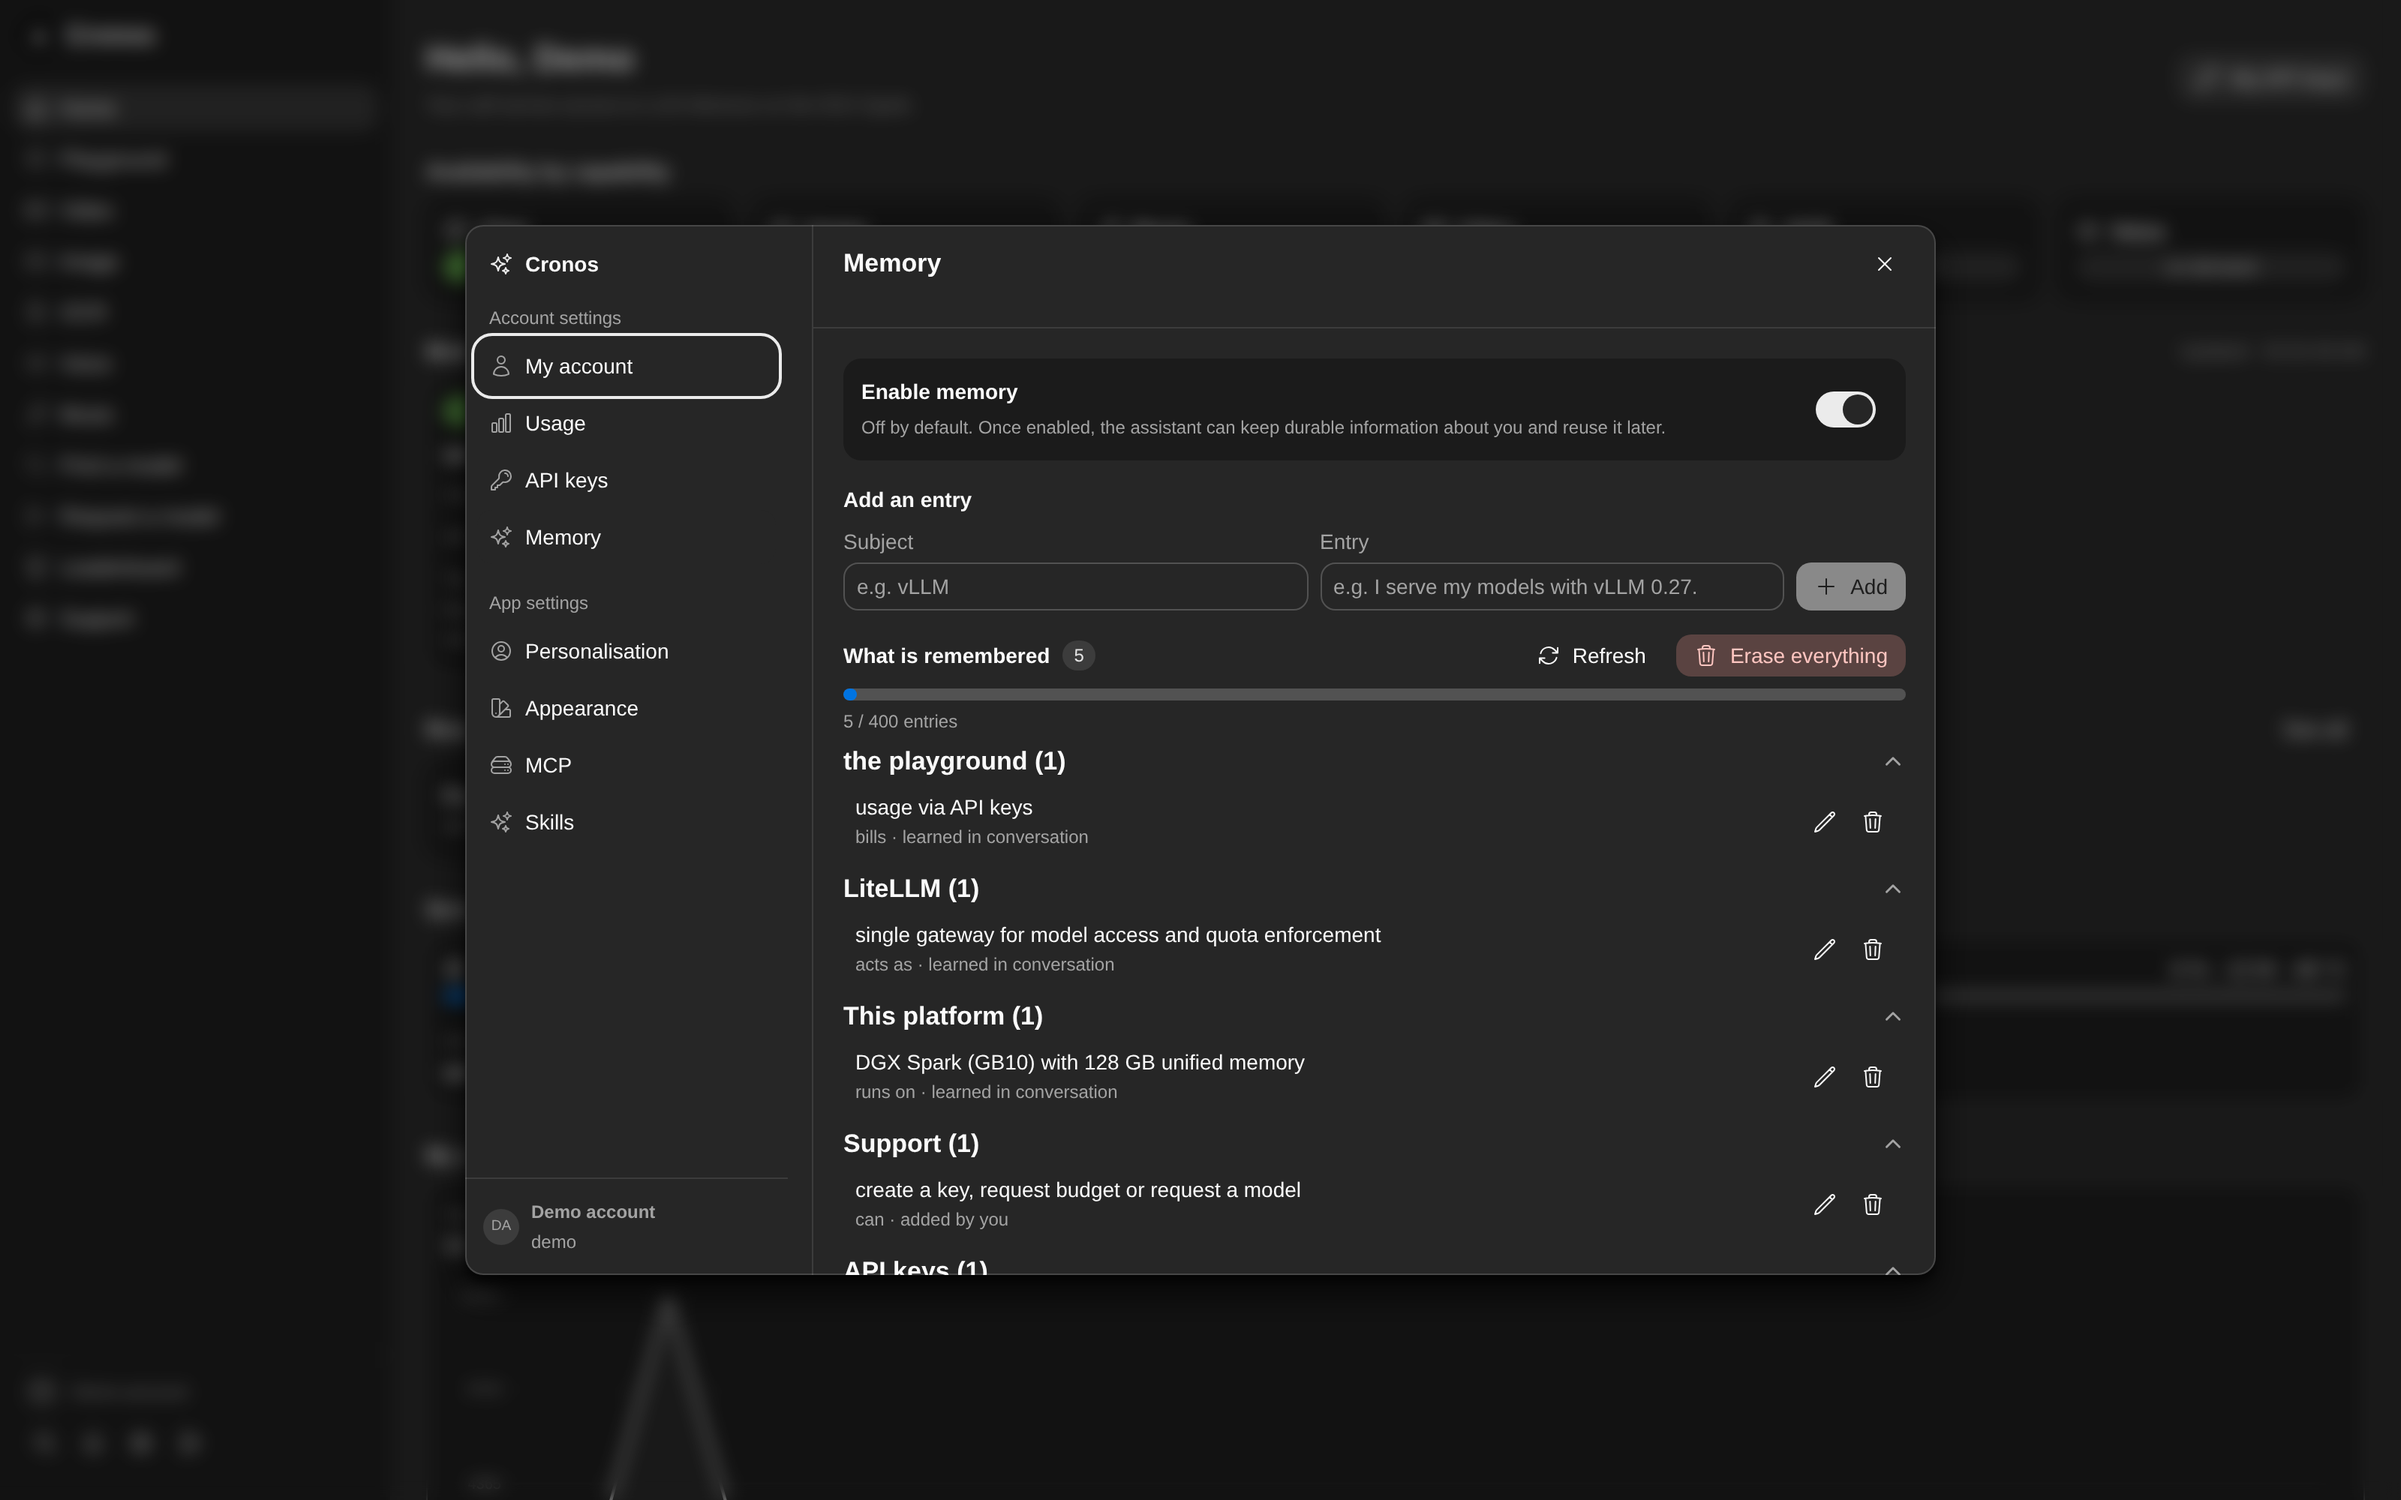
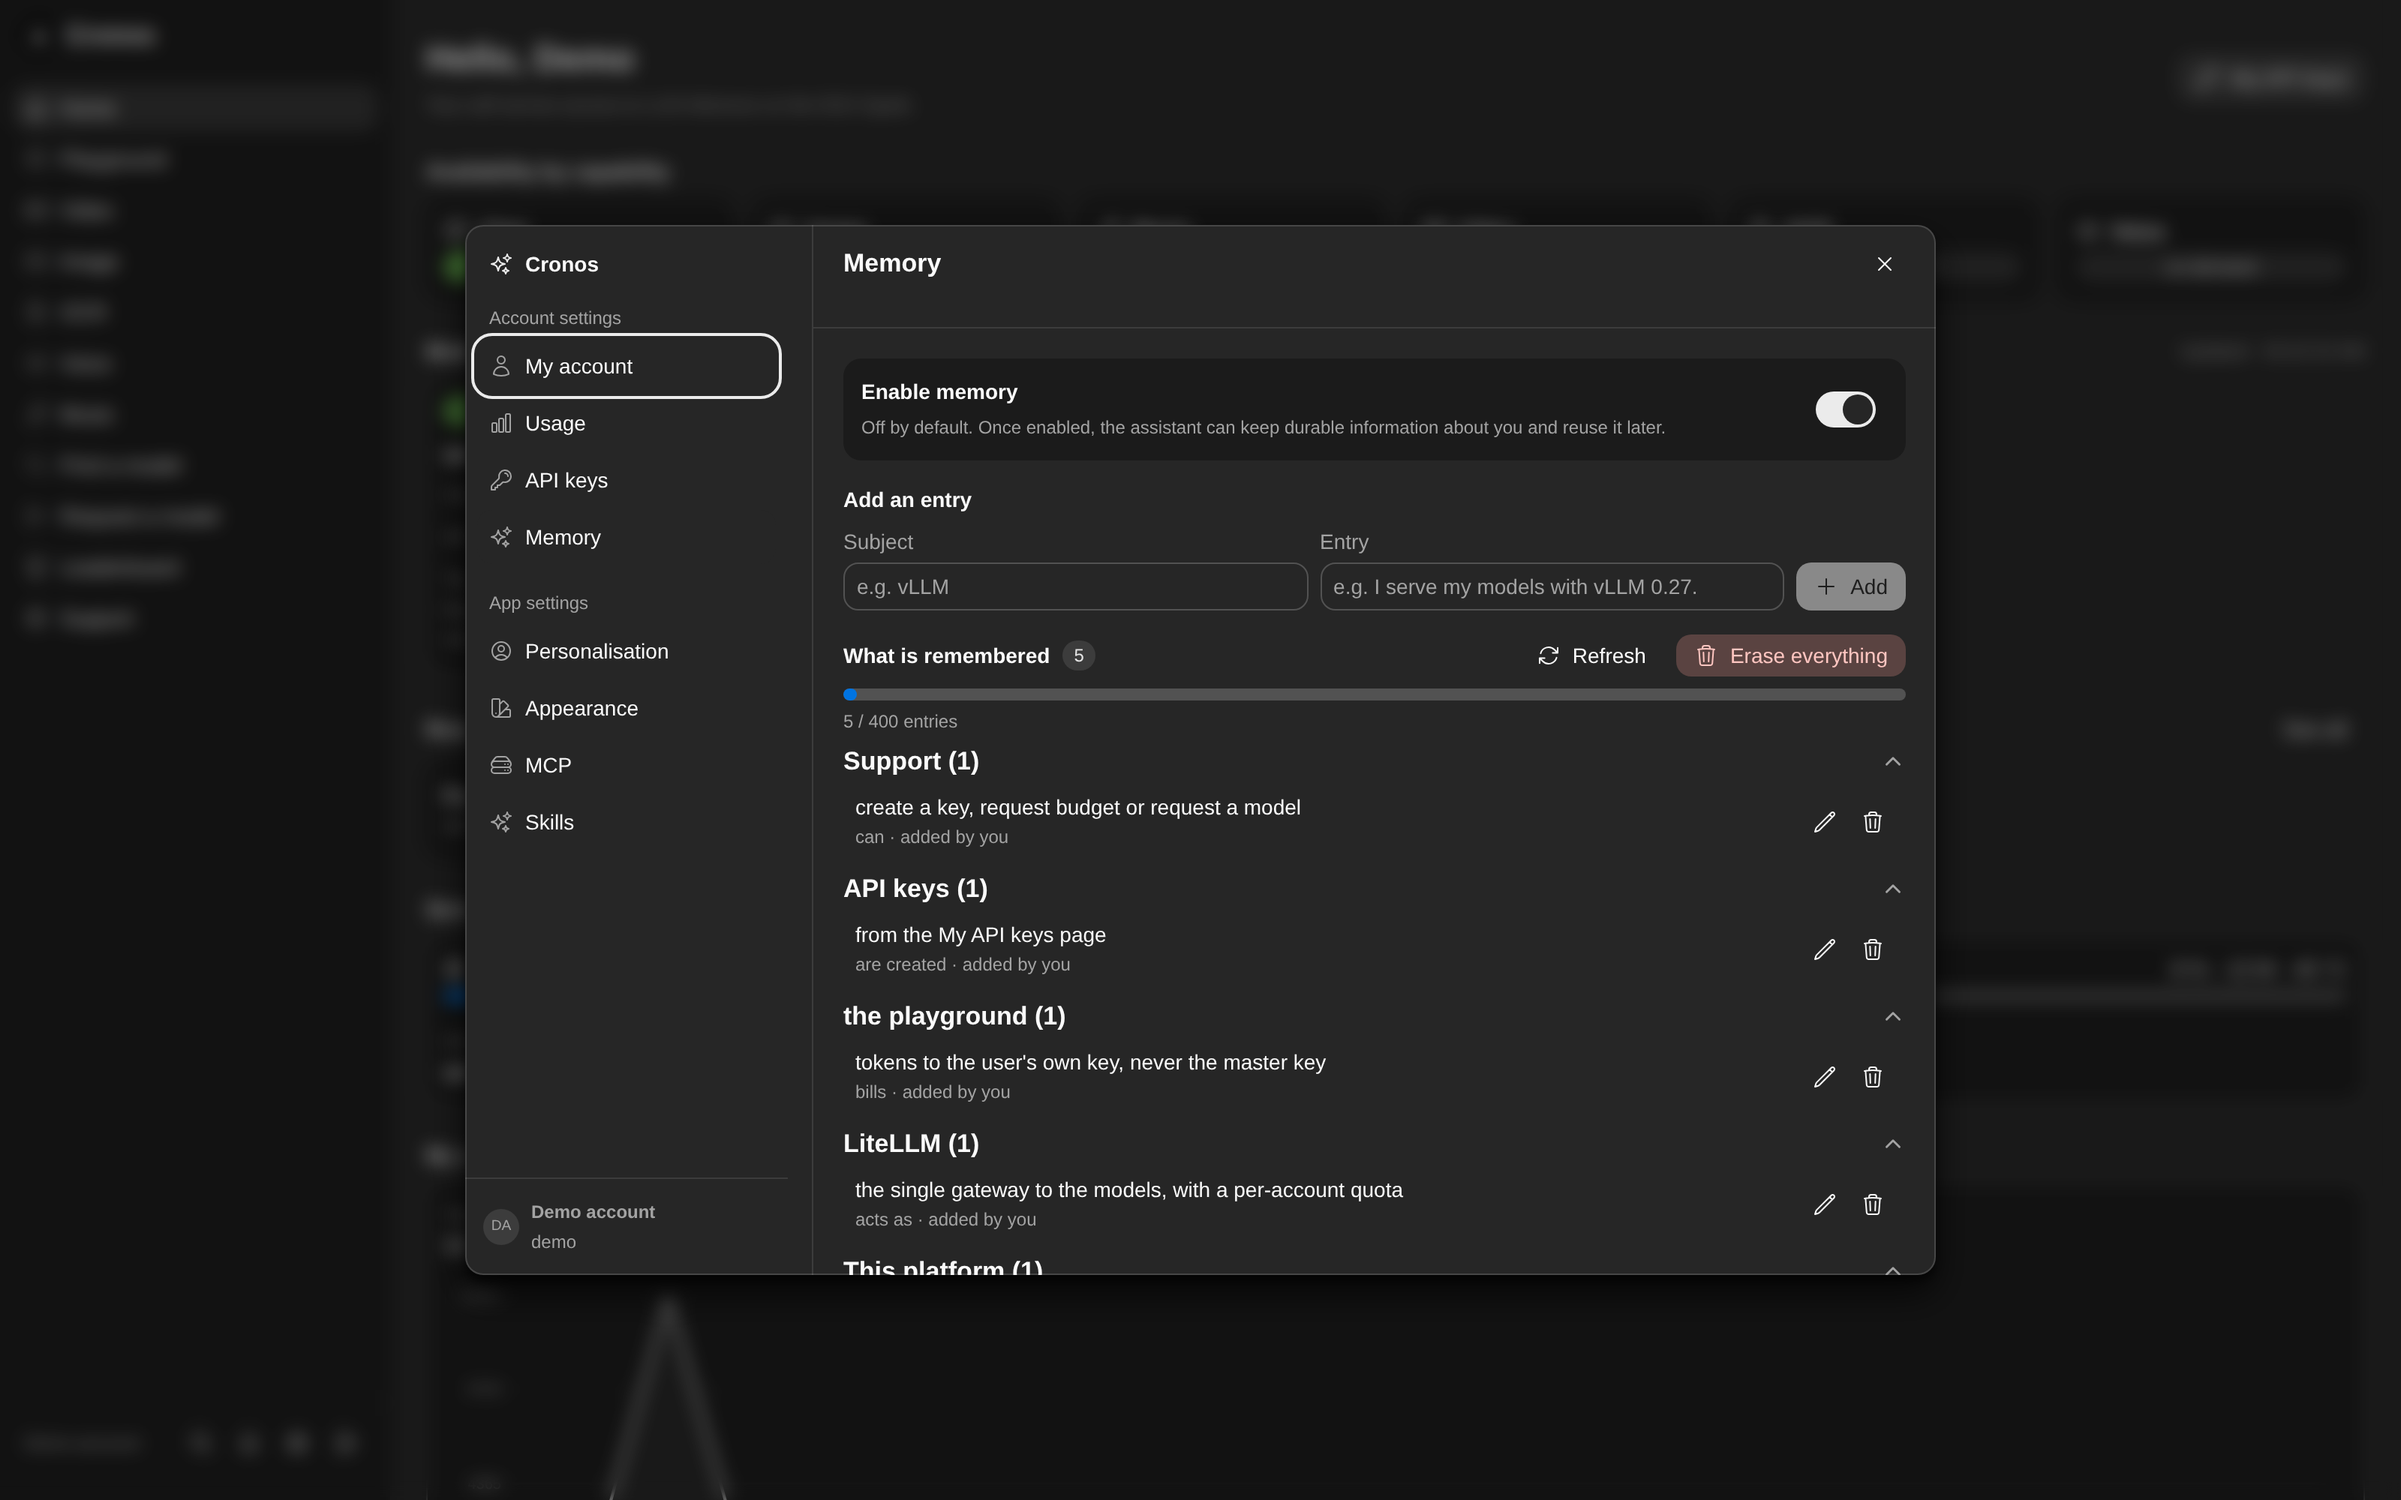
screenshots: one command for the media pages, deterministic memory prep
The five media pages are the only ones left on their 2026-08-29 capture, since
an idle OCR/voice/video/image/music page only says "no model is available" and
they cannot all be up at once on a 128 GB box that already holds a 99 GB chat
model.

- `--media` shoots every media page whose backend is actually up: it asks the
  portal's own /api/health, so it never captures an idle page and never needs
  anyone to remember which sidecar is loaded.
- prep() now purges the demo account's memory before rewriting the five facts.
  "add only what is missing" left the graph drifting between runs -- the model
  extracts its own facts from the conversations each shoot creates, so the
  published Memory page showed 5, 8 or 37 facts depending on history.

Changed region(s): [[0.3438, 0.496, 0.5625, 0.868]]

diff --git a/scripts/screenshots.py b/scripts/screenshots.py
@@ -17,6 +17,7 @@ coup (le modèle qui écrit ce script ne voit pas les images).
 Usage (les trois modes s'enchaînent : capturer, vérifier, installer) :
     python screenshots.py                 # capture toutes les pages
     python screenshots.py playground      # une seule page
+    python screenshots.py --media         # les pages média dont le modèle tourne
     python screenshots.py --verify        # contrôle les PNG déjà produits
     python screenshots.py --install       # copie les PNG validés dans assets/
 
@@ -122,6 +123,19 @@ def log(msg):
     print(f"  {msg}", flush=True)
 
 
+def media_prets(page):
+    """Backends média réellement chargés, vus par le portail lui-même.
+
+    `/api/health` est la bonne source : les sidecars sont on-demand, donc leur
+    absence est un état normal et non une panne, et c'est le portail qui sait
+    lequel répond (celui qu'affiche l'Admin)."""
+    return page.evaluate("""() => fetch('/api/health').then(r => r.json())
+        .then(d => Object.entries(d.services || {})
+          .filter(([k, v]) => ['ocr', 'voice', 'video', 'image', 'music'].includes(k)
+                            && v && v.ready)
+          .map(([k]) => k))""")
+
+
 def login(page):
     """Attend l'hydratation React AVANT de remplir : sinon les champs sont
     réécrits par le premier rendu client et le bouton reste désactivé."""
@@ -150,25 +164,24 @@ def prep(page):
             return res.status;
         }""", [token])
         log(f"clé API créée (HTTP {st})")
-    # Idempotent : sans ce filtre, chaque exécution réempile les mêmes
-    # souvenirs (le graphe a atteint 37 faits au lieu de 5 avant correction).
-    # `?expired=1` : le graphe visible ne montre que les faits valides, or un fait
-    # qu'on vient de poser peut être aussitôt remplacé par ce que le modèle extrait
-    # d'une conversation — sans cette option le script le reposerait à chaque
-    # exécution et la table enflerait (37 faits observés avant correction).
-    known = page.evaluate("""() => fetch('/api/memory?expired=1').then(r => r.json())
-        .then(d => (d.edges || d.facts || []).map(e => (e.fact || e.label || '').trim()))""")
-    added = 0
+    # Déterministe plutôt qu'idempotent : on purge puis on réécrit les cinq
+    # faits. Un simple « n'ajoute que s'il manque » laissait le graphe dériver —
+    # le modèle extrait ses propres souvenirs des conversations de capture, et le
+    # compte finissait avec 37 faits (ou 8, ou 5) selon l'historique des
+    # exécutions. Or la page Mémoire est publiée : elle doit montrer la même chose
+    # à chaque prise de vue.
+    page.evaluate("""async ([tok]) => {
+        await fetch('/api/memory/purge', {method: 'POST',
+            headers: {'X-CSRFToken': tok, 'Content-Type': 'application/json'},
+            body: JSON.stringify({})});
+    }""", [token])
     for subj, rel, fact in MEM_FACTS:
-        if fact in known:
-            continue
         page.evaluate("""async ([tok, subj, rel, fact]) => {
             await fetch('/api/memory/facts', {method: 'POST',
                 headers: {'X-CSRFToken': tok, 'Content-Type': 'application/json'},
                 body: JSON.stringify({subject: subj, relation: rel, fact: fact})});
         }""", [token, subj, rel, fact])
-        added += 1
-    log(f"souvenirs : {added} ajouté(s), {len(known)} déjà présent(s)")
+    log(f"mémoire purgée puis réécrite : {len(MEM_FACTS)} faits")
     return token
 
 
@@ -234,6 +247,16 @@ def main():
         page.on("pageerror", lambda e: errors.append(str(e)))
         login(page)
         token = prep(page)
+        if "--media" in sys.argv:
+            prets = media_prets(page)
+            if prets:
+                log(f"backends média chargés : {', '.join(prets)}")
+                only = sorted(set(only) | set(prets))
+            else:
+                log("aucun backend média n'est chargé — rien à capturer. Démarre-en un "
+                    "depuis Admin (ou attends qu'un utilisateur s'en serve), puis relance")
+                log("  les cinq pages resteront sur leur capture publiée.")
+                pages = []
         for name, route in pages:
             if name in SKIP_REFRESH and not only:
                 log(f"{name} : ignorée (aucun modèle média chargé — capture publiée conservée)")
@@ -364,7 +387,7 @@ if "--install" in sys.argv:
     for name, _ in PAGES:
         # Ne jamais écraser une capture publiée par une prise de vue qu'on n'a
         # pas voulue : les pages média ne sont installées que si on les nomme.
-        if name in SKIP_REFRESH and name not in noms:
+        if name in SKIP_REFRESH and name not in noms and "--media" not in sys.argv:
             print(f"  conservé : assets/{name}.png (page média, non recapturée)")
             continue
         src = f"{OUT}/{name}.png"

diff --git a/README.md b/README.md
@@ -462,11 +462,11 @@ known account with a badge for each authentication source — **Local**, **LDAP*
 > than publishing an "Administrators only" page). The five media pages are the
 > one exception: they are only worth shooting **while one of those models is
 > loaded**, since an idle page just says "no model is available" — the script
-> skips them by default and keeps the published image. Naming the page explicitly
-> overrides that: with the model up, `python scripts/screenshots.py ocr` (same for
-> `voice`, `video`, `image`, `music`) takes the shot, and `--verify --install`
-> puts it in place. To take all five in one go, start each sidecar from Admin,
-> shoot it, stop it, and move to the next.
+> skips them by default and keeps the published image. Two ways round that:
+> name the page (`python scripts/screenshots.py ocr`), or use `--media`, which
+> shoots every media page whose backend is currently up — it asks `/api/health`
+> first, so it can never capture an idle page. Start a sidecar from Admin, run
+> `--media`, then `--verify --install`.
 >
 > | Page | Route | File |
 > |---|---|---|
